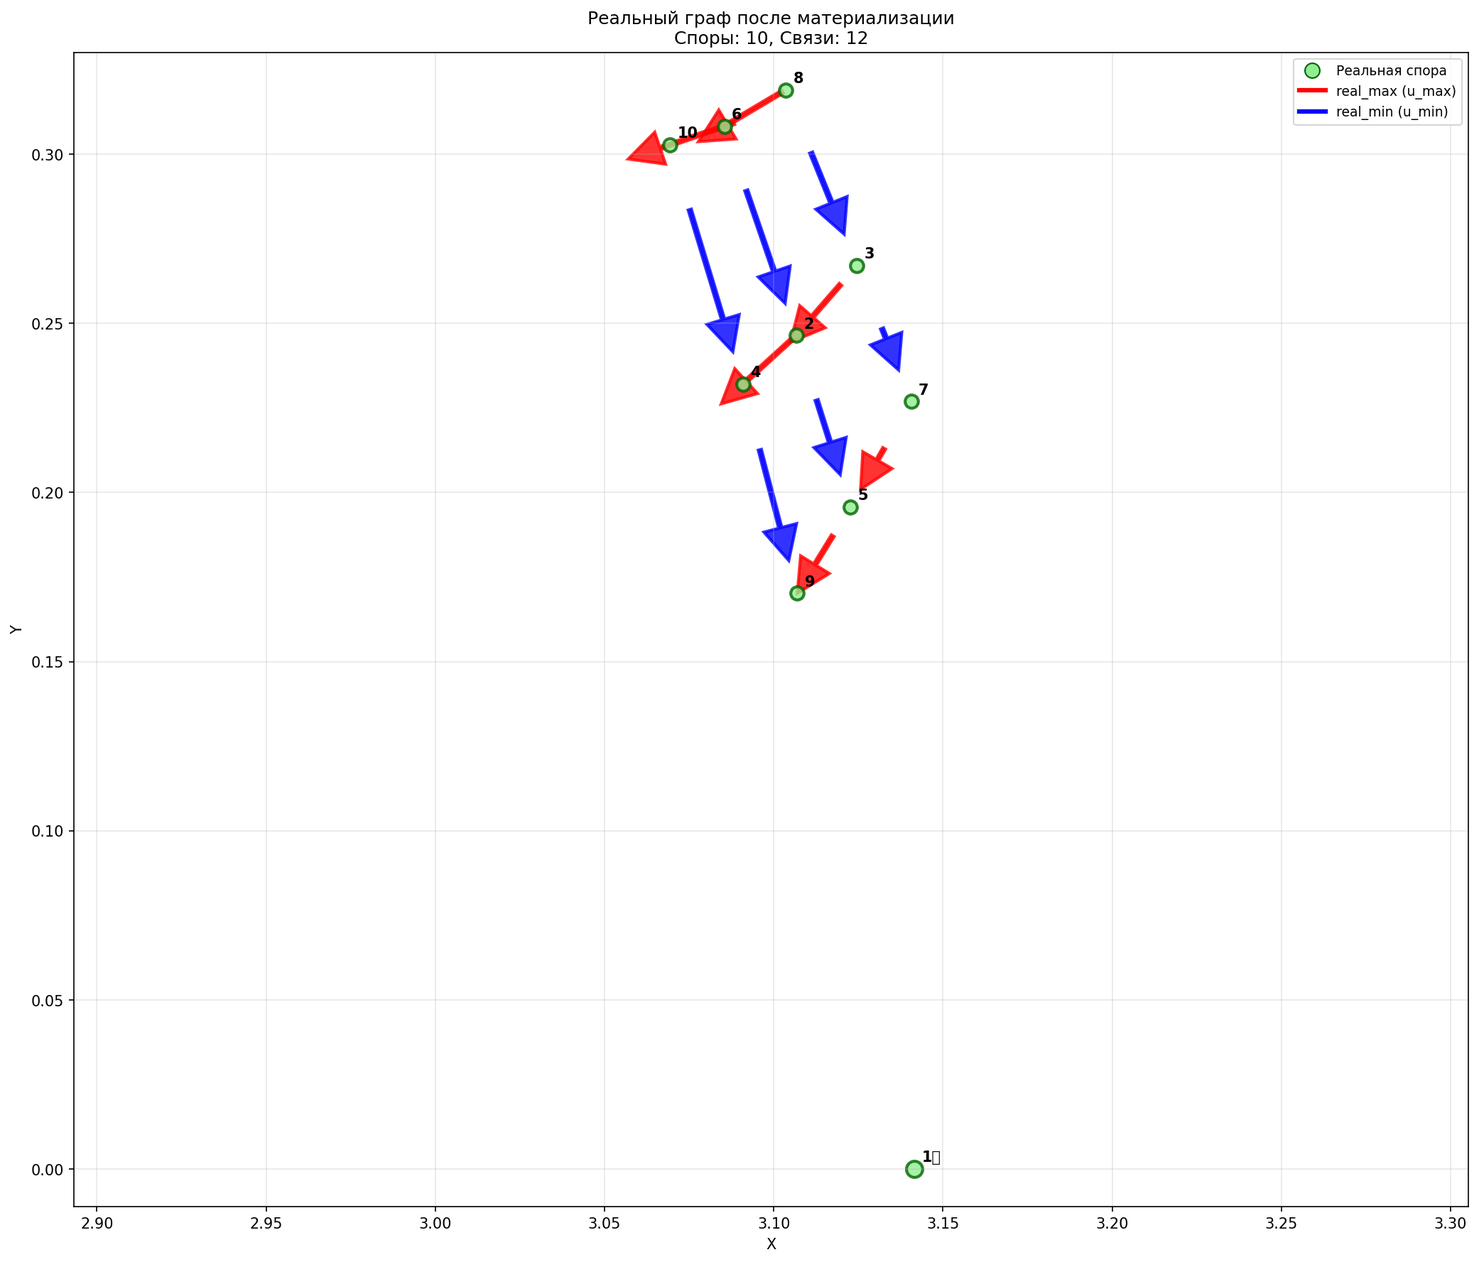
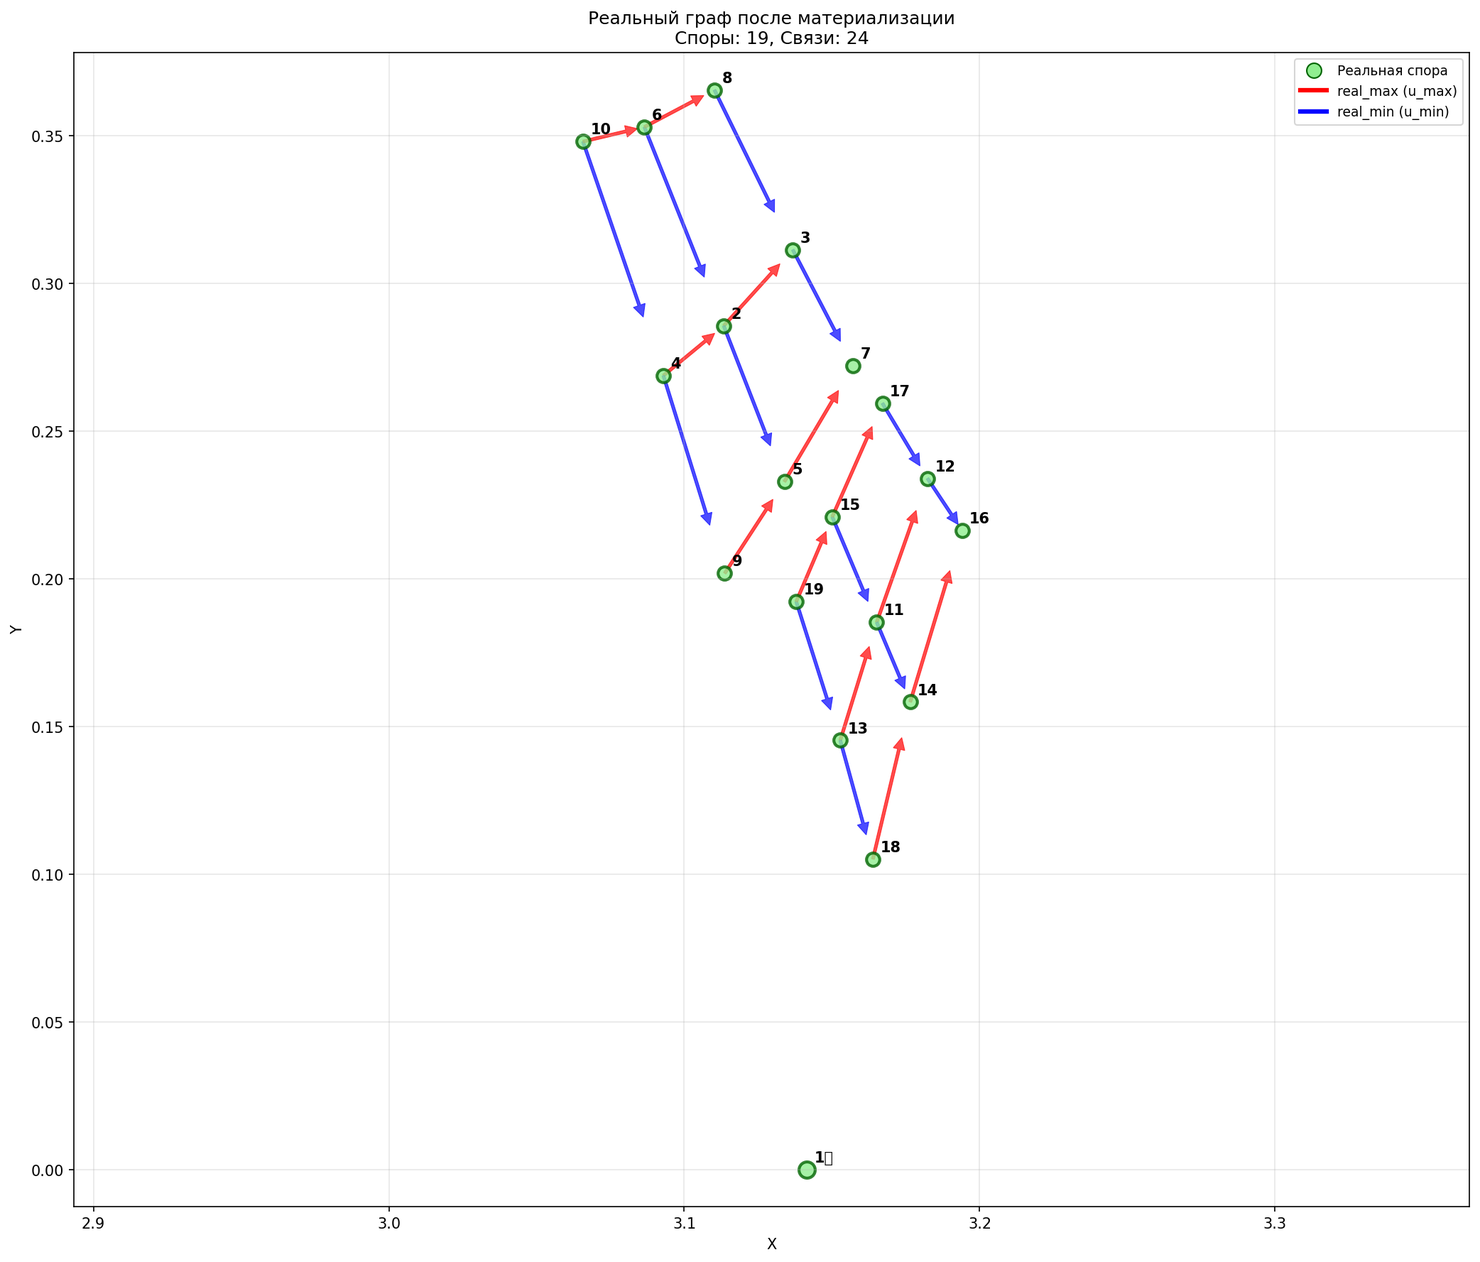
починил направления стрелок

diff --git a/spores/v16_picker/src/managers/buffer_merge_manager.py b/spores/v16_picker/src/managers/buffer_merge_manager.py
@@ -374,11 +374,9 @@ class BufferMergeManager:
             if dt > 0:
                 # dt > 0: корень → ребенок
                 parent_id, child_id = root_buffer_id, child_buffer_id
-                direction = "→"
             else:
                 # dt < 0: ребенок → корень  
                 parent_id, child_id = child_buffer_id, root_buffer_id
-                direction = "←"
             
             # Создаем связь
             link = {
@@ -390,7 +388,27 @@ class BufferMergeManager:
             self.buffer_links.append(link)
             self.stats['total_links'] += 1
             
-            print(f"      ✅ {parent_id} {direction} {child_buffer_id} ({link_type})")
+            # Правильное отображение направления стрелки
+            if child_data['dt'] > 0:  # forward
+                arrow_display = f"{parent_id} → {child_id}"
+                direction_info = "forward"
+            else:  # backward  
+                arrow_display = f"{child_id} ← {parent_id}"
+                direction_info = "backward"
+
+            print(f"      ✅ Связь {i}: {arrow_display} "
+                  f"({link_type}, dt={child_data['dt']:+.3f}, u={child_data['control']:+.1f}, {direction_info})")
+        
+        # Краткий вывод связей
+        print(f"   🔗 СВЯЗИ КОРЕНЬ ↔ ДЕТИ:")
+        for i, child_data in enumerate(tree_logic.children):
+            child_ghost_id = f"ghost_child_{i}"
+            child_buffer_id = self.ghost_to_buffer.get(child_ghost_id)
+            
+            if child_data['dt'] > 0:  # forward: корень → ребенок  
+                print(f"      ✅ buffer_root → {child_buffer_id} ({self._get_link_type(child_data)})")
+            else:  # backward: ребенок → корень
+                print(f"      ✅ {child_buffer_id} → buffer_root ({self._get_link_type(child_data)})")
 
     def _create_child_grandchild_links(self, tree_logic):
         """Создает связи между детьми и внуками.""" 
@@ -430,16 +448,15 @@ class BufferMergeManager:
             if dt > 0:
                 # dt > 0: ребенок → внук
                 parent_id, child_id = parent_buffer_id, grandchild_buffer_id
-                direction = "→"
             else:
                 # dt < 0: внук → ребенок
                 parent_id, child_id = grandchild_buffer_id, parent_buffer_id
-                direction = "←"
             
             # Проверяем на дублирование связи (может быть при объединении)
             existing_link = self._find_existing_link(parent_id, child_id, link_type)
             if existing_link:
-                print(f"      🔗 Связь уже существует: {parent_id} {direction} {child_id} ({link_type})")
+                direction_symbol = "→" if dt > 0 else "←"
+                print(f"      🔗 Связь уже существует: {parent_id} {direction_symbol} {child_id} ({link_type})")
                 self.stats['merged_links'] += 1
                 continue
             
@@ -453,7 +470,20 @@ class BufferMergeManager:
             self.buffer_links.append(link)
             self.stats['total_links'] += 1
             
-            print(f"      ✅ {parent_buffer_id} {direction} {grandchild_buffer_id} ({link_type})")
+            # Правильное отображение направления стрелки
+            if grandchild_data['dt'] > 0:  # forward
+                arrow_display = f"{parent_id} → {child_id}"
+                direction_info = "forward"
+            else:  # backward
+                arrow_display = f"{child_id} ← {parent_id}" 
+                direction_info = "backward"
+
+            print(f"      ✅ Связь {i}: {arrow_display} "
+                  f"({link_type}, dt={grandchild_data['dt']:+.3f}, u={grandchild_data['control']:+.1f}, {direction_info})")
+
+    def _get_link_type(self, spore_data):
+        """Определяет тип связи по управлению."""
+        return 'buffer_max' if spore_data['control'] > 0 else 'buffer_min'
 
     def _find_existing_link(self, parent_id: str, child_id: str, link_type: str) -> bool:
         """Проверяет существует ли уже такая связь."""
@@ -609,7 +639,7 @@ class BufferMergeManager:
             )
 
     def _draw_buffer_links(self, ax):
-        """Рисует связи буферного графа как стрелки."""
+        """Рисует связи буферного графа как стрелки с отладкой."""
         if not hasattr(self, 'buffer_positions'):
             return
 
@@ -619,7 +649,9 @@ class BufferMergeManager:
             'buffer_min': 'blue'      # u_min - синий
         }
 
-        for link in getattr(self, 'buffer_links', []):
+        print(f"🎨 ОТЛАДКА ВИЗУАЛИЗАЦИИ: Рисование {len(getattr(self, 'buffer_links', []))} связей")
+
+        for i, link in enumerate(getattr(self, 'buffer_links', [])):
             parent_id = link['parent_id']
             child_id = link['child_id']
             link_type = link['link_type']
@@ -629,26 +661,62 @@ class BufferMergeManager:
             child_pos = self.buffer_positions.get(child_id)
 
             if parent_pos is None or child_pos is None:
+                print(f"   ❌ Связь {i}: позиции не найдены ({parent_id}, {child_id})")
                 continue
 
-            # Цвет стрелки
-            color = link_colors.get(link_type, 'gray')
+            # ОТЛАДКА: выводим что именно рисуем
+            print(f"   🎨 Связь {i}: {parent_id} → {child_id}")
+            print(f"      📍 Начало ({parent_id}): ({parent_pos[0]:.4f}, {parent_pos[1]:.4f})")  
+            print(f"      📍 Конец ({child_id}):  ({child_pos[0]:.4f}, {child_pos[1]:.4f})")
+            print(f"      🎨 Цвет: {link_colors.get(link_type, 'gray')} ({link_type})")
+            
+            # Проверяем соответствие ID и позиций
+            actual_parent_pos = self.buffer_positions.get(parent_id)
+            actual_child_pos = self.buffer_positions.get(child_id)
+            print(f"      🔍 Проверка: parent_pos == actual_parent_pos: {np.allclose(parent_pos, actual_parent_pos)}")
+            print(f"      🔍 Проверка: child_pos == actual_child_pos: {np.allclose(child_pos, actual_child_pos)}")
+            
+            # Анализируем source_info для понимания направления
+            if 'source_info' in link:
+                source_info = link['source_info']
+                print(f"      📋 Source info: {source_info}")
+                
+                # Извлекаем dt из source_info
+                import re
+                dt_match = re.search(r'dt=([+-]?\d+\.?\d*)', source_info)
+                if dt_match:
+                    dt_value = float(dt_match.group(1))
+                    expected_direction = "forward" if dt_value > 0 else "backward"
+                    print(f"      📐 DT: {dt_value:.3f} → ожидаемое направление: {expected_direction}")
 
-            # Рисуем стрелку от parent к child
+            # JSON уже содержит правильное направление в parent_id и child_id
+            # Просто рисуем стрелку от parent_id к child_id как указано в JSON
             dx = child_pos[0] - parent_pos[0]
             dy = child_pos[1] - parent_pos[1]
+            
+            print(f"      🎯 Направление из JSON: {parent_id} → {child_id}")
 
-            # Смещаем начало и конец стрелки чтобы они не перекрывали споры
+            # Расчет с уменьшением длины стрелки на 20%
             length = np.sqrt(dx * dx + dy * dy)
             if length > 0:
-                offset = 0.015  # Отступ от центра споры
-                start_offset = offset / length
-                end_offset = offset / length
-
-                start_x = parent_pos[0] + dx * start_offset
-                start_y = parent_pos[1] + dy * start_offset
-                arrow_dx = dx * (1 - 2 * end_offset)
-                arrow_dy = dy * (1 - 2 * end_offset)
+                # Уменьшаем длину стрелки на 30% (оставляем 70%)
+                reduction_factor = 0.7
+                
+                # Начало стрелки остается в parent_pos
+                start_x = parent_pos[0]
+                start_y = parent_pos[1]
+                
+                # Вектор стрелки уменьшен на 20%
+                arrow_dx = dx * reduction_factor
+                arrow_dy = dy * reduction_factor
+                
+                print(f"      🔧 Расчет с уменьшением на 30%:")
+                print(f"         Parent: ({parent_pos[0]:.4f}, {parent_pos[1]:.4f})")
+                print(f"         Child:  ({child_pos[0]:.4f}, {child_pos[1]:.4f})")
+                print(f"         Start:  ({start_x:.4f}, {start_y:.4f})")
+                print(f"         Оригинальная длина: {length:.4f}")
+                print(f"         Новая длина: {length * reduction_factor:.4f}")
+                print(f"         Arrow:  dx={arrow_dx:.4f}, dy={arrow_dy:.4f}")
 
                 # Настраиваем ширину стрелки в зависимости от длины
                 # Минимальная ширина 0.5, максимальная 3.0
@@ -657,11 +725,29 @@ class BufferMergeManager:
                 head_width = max(0.004, min(0.012, length * 0.05))
                 head_length = max(0.004, min(0.012, length * 0.05))
 
+                color = link_colors.get(link_type, 'gray')
+
                 ax.arrow(
                     start_x, start_y, arrow_dx, arrow_dy,
                     head_width=head_width, head_length=head_length,
                     fc=color, ec=color, alpha=0.7, linewidth=arrow_width
                 )
+                
+                print(f"      ✅ Стрелка нарисована: {start_x:.4f},{start_y:.4f} → {start_x+arrow_dx:.4f},{start_y+arrow_dy:.4f}")
+                print(f"      📐 Вектор: dx={dx:.4f}, dy={dy:.4f}, длина={length:.4f}")
+                print(f"      📐 Arrow vector: dx={arrow_dx:.4f}, dy={arrow_dy:.4f}")
+                
+                # Проверяем правильность направления стрелки
+                end_x = start_x + arrow_dx
+                end_y = start_y + arrow_dy
+                print(f"      🎯 Проверка направления:")
+                print(f"         Начало стрелки: ({start_x:.4f}, {start_y:.4f})")
+                print(f"         Конец стрелки:  ({end_x:.4f}, {end_y:.4f})")
+                print(f"         JSON направление: {parent_id} → {child_id}")
+                print(f"         Arrow вектор: dx={arrow_dx:.4f}, dy={arrow_dy:.4f}")
+
+            else:
+                print(f"   ⚠ Связь {i}: нулевая длина!")
 
     def _add_legend(self, ax):
         """Добавляет легенду к графику."""
@@ -1209,25 +1295,32 @@ class BufferMergeManager:
 
                 color = link_colors.get(link_type, 'gray')
                 
-                # Рисуем стрелку
+                # Рисуем стрелку с правильным направлением (как в буферном графе)
                 dx = child_pos[0] - parent_pos[0]
                 dy = child_pos[1] - parent_pos[1]
                 
-                # Смещение от центра спор
+                # Расчет с уменьшением длины стрелки на 30%
                 length = np.sqrt(dx*dx + dy*dy)
                 if length > 0:
-                    offset = 0.02
-                    start_offset = offset / length
-                    end_offset = offset / length
+                    # Уменьшаем длину стрелки на 30% (оставляем 70%)
+                    reduction_factor = 0.7
                     
-                    start_x = parent_pos[0] + dx * start_offset
-                    start_y = parent_pos[1] + dy * start_offset
-                    arrow_dx = dx * (1 - 2*end_offset)
-                    arrow_dy = dy * (1 - 2*end_offset)
+                    # Начало стрелки остается в parent_pos
+                    start_x = parent_pos[0]
+                    start_y = parent_pos[1]
+                    
+                    # Вектор стрелки уменьшен на 30%
+                    arrow_dx = dx * reduction_factor
+                    arrow_dy = dy * reduction_factor
+                    
+                    # Настраиваем размеры стрелки
+                    arrow_width = max(0.5, min(3.0, length * 0.1))
+                    head_width = max(0.004, min(0.012, length * 0.05))
+                    head_length = max(0.004, min(0.012, length * 0.05))
                     
                     ax.arrow(start_x, start_y, arrow_dx, arrow_dy,
-                            head_width=0.01, head_length=0.01,
-                            fc=color, ec=color, alpha=0.8, linewidth=2)
+                            head_width=head_width, head_length=head_length,
+                            fc=color, ec=color, alpha=0.7, linewidth=arrow_width)
                             
             except Exception as e:
                 print(f"Ошибка отрисовки связи: {e}")
@@ -1237,7 +1330,7 @@ class BufferMergeManager:
         from matplotlib.lines import Line2D
         
         legend_elements = [
-            # Споры
+            # Споры (убираем emoji)
             Line2D([0], [0], marker='o', color='w', markerfacecolor='lightgreen',
                    markeredgecolor='darkgreen', markersize=10, label='Реальная спора'),
             
@@ -1306,6 +1399,37 @@ class BufferMergeManager:
             error_msg = f"Ошибка очистки буферного графа: {e}"
             print(f"   ❌ {error_msg}")
             return self._get_error_result(error_msg)
+
+    def create_debug_diagram(self):
+        """Создает упрощенную схему направлений для проверки."""
+        if not hasattr(self, 'buffer_links'):
+            print("❌ Нет связей для отладки")
+            return
+            
+        print(f"\n📋 СХЕМА НАПРАВЛЕНИЙ СВЯЗЕЙ:")
+        print(f"="*50)
+        
+        for i, link in enumerate(self.buffer_links):
+            parent_id = link['parent_id']
+            child_id = link['child_id']
+            link_type = link['link_type']
+            
+            # Упрощенные ID для читаемости
+            parent_short = parent_id.replace('buffer_', '')
+            child_short = child_id.replace('buffer_', '')
+            
+            # Символ для типа связи
+            symbol = '🔴' if link_type == 'buffer_max' else '🔵'
+            
+            print(f"{i+1:2d}. {parent_short} ──{symbol}──> {child_short}")
+            
+            # Дополнительная информация если есть
+            if 'source_info' in link:
+                source = link['source_info']
+                print(f"     ({source})")
+        
+        print(f"="*50)
+        print(f"🔴 = buffer_max (u=+2.0)   🔵 = buffer_min (u=-2.0)")
 
     def has_buffer_data(self) -> bool:
         """Проверяет есть ли данные в буферном графе."""

diff --git a/spores/v16_picker/test_visualization.py b/spores/v16_picker/test_visualization.py
@@ -1,0 +1,35 @@
+#!/usr/bin/env python3
+"""
+Тестовый скрипт для проверки визуализации стрелок в BufferMergeManager
+"""
+
+import sys
+import os
+
+# Добавляем путь к модулям
+sys.path.append(os.path.join(os.path.dirname(__file__), 'src'))
+
+from managers.buffer_merge_manager import BufferMergeManager
+
+def test_visualization():
+    """Тестирует визуализацию стрелок."""
+    print("🧪 ТЕСТ ВИЗУАЛИЗАЦИИ СТРЕЛОК")
+    print("="*50)
+    
+    # Создаем менеджер
+    manager = BufferMergeManager()
+    
+    # Проверяем есть ли данные в буфере
+    if not manager.has_buffer_data():
+        print("❌ Буферный граф пуст - нет данных для тестирования")
+        print("💡 Запустите сначала основной скрипт для создания буферного графа")
+        return
+    
+    # Создаем схему направлений
+    manager.create_debug_diagram()
+    
+    print("\n🎨 Тест завершен!")
+    print("💡 Проверьте логи выше на соответствие JSON данным")
+
+if __name__ == "__main__":
+    test_visualization()

diff --git a/spores/v16_picker/src/visual/ui_constants.py b/spores/v16_picker/src/visual/ui_constants.py
@@ -14,7 +14,7 @@ class UI_POSITIONS:
         'GAME_CONTROLS': Vec2(-0.76, 0.46),
         'SPORE_INSTRUCTION': Vec2(-0.76, 0.19),
         'SPORE_COUNTER': Vec2(-0.76, 0.13),
-        'DT_INFO': Vec2(-0.76, 0.07), 
+        'DT_INFO': Vec2(-0.76, 0.07),
         
         # --- Правая сторона экрана ---
         'SPAWN_AREA_INFO': Vec2(0.5, 0.27),
@@ -22,7 +22,6 @@ class UI_POSITIONS:
         'LOOK_POINT_DEBUG': Vec2(0.5, 0.47),
         'PARAM_VALUE': Vec2(0.57, -0.31),
         'CANDIDATE_INFO': Vec2(0.29, 0.47),
-        'CANDIDATE_CONTROLS': Vec2(0.5, 0.34),
         
         # --- Низ/Центр экрана ---
         'POSITION_INFO': Vec2(0.5, -0.44),
@@ -98,4 +97,4 @@ class UI_POSITIONS:
             setattr(cls, key, pos)
 
 # Инициализируем позиции при импорте
-UI_POSITIONS._init_positions() 
+UI_POSITIONS._init_positions()

diff --git a/spores/v16_picker/src/visual/ui_setup.py b/spores/v16_picker/src/visual/ui_setup.py
@@ -154,13 +154,6 @@ class UI_setup:
                 position=UI_POSITIONS.CANDIDATE_INFO,
                 style='normal'
             )
-            
-            # Добавляем инструкции по управлению
-            self.ui_elements['candidate_controls'] = self.ui_manager.create_instructions(
-                'candidate_controls',
-                'G - activate candidate\n5/6 - adjust radius',
-                position=UI_POSITIONS.CANDIDATE_CONTROLS
-            )
             print("   ✓ Информация о кандидатах")
 
         if 'get_dt_info' in self.data_providers:

diff --git a/spores/v16_picker/docs/candidate_system.md b/spores/v16_picker/docs/candidate_system.md
@@ -151,14 +151,6 @@ Candidates: XX
 Min radius: 0.XX
 ```
 
-### Инструкции управления
-**Позиция:** `CANDIDATE_CONTROLS = (0.29, 0.38)`
-**Содержание:**
-```
-G - activate candidate
-5/6 - adjust radius
-```
-
 ### Система обновления данных
 Используется колбэк `get_candidate_info`:
 ```python
